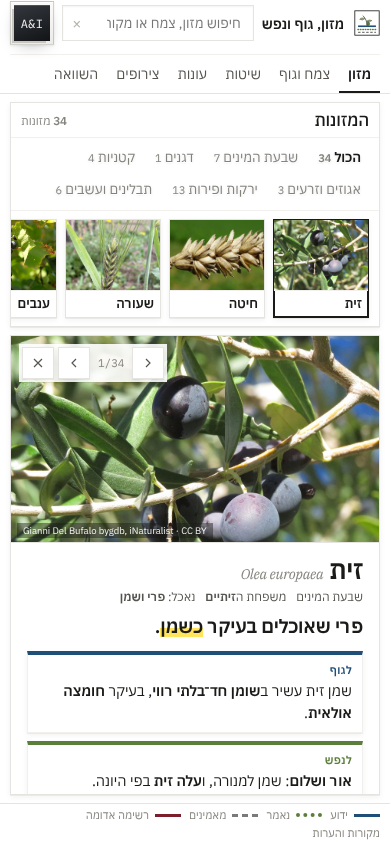
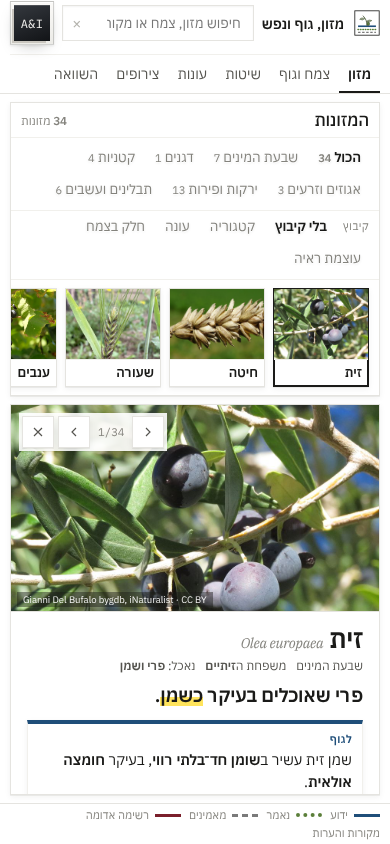
In-page photo zoom, gallery grouping with insights, two-way filters in the combinations network
- js/zoom.js: click a photo in a .zoomable frame (food sheet, plant part)
  to open it large in the page with name and credit; X, Esc (captured so
  the sheet stays open), backdrop or a screen change closes it.
- Foods gallery: group by category, season, plant part or evidence (?g=),
  with a heading and count per group and one insight sentence per grouping.
  Prev/next in the sheet follow the displayed order.
- Network: kind filter (all, boost only, block only) and partner filter
  (all, food with food, external partner), with a count and an explained
  empty state.
- Fix: <br> inside rich() rendered as text in the empty network sheet.
- e2e: 125 checks.

Claude-Session: https://claude.ai/code/session_018qeN17pb9LqXcs5gNnyUZN

diff --git a/js/views/foods.js b/js/views/foods.js
@@ -11,6 +11,8 @@ import { SCIENCE } from "../data/science.js";
 import { synergiesFor } from "../data/synergies.js";
 import { evMeter } from "../ui.js";
 import { medicineFor } from "../data/medicine.js";
+import { PARTS } from "../data/plant.js";
+import { EVIDENCE } from "../data/sources.js";
 
 export const title = "מזון";
 
@@ -44,6 +46,42 @@ function matcher(q) {
 }
 
 const visible = () => FOODS.filter((f) => !state.cats.length || state.cats.includes(f.cat));
+
+// קיבוץ הגלריה: לפי קטגוריה, עונה, חלק בצמח או עוצמת ראיה. בכל קבוצה מיון לפי השם.
+const SEASON_OF = [["חורף", [12, 1, 2]], ["אביב", [3, 4, 5]], ["קיץ", [6, 7, 8]], ["סתיו", [9, 10, 11]]];
+const GROUPS = {
+  none: { he: "בלי קיבוץ" },
+  cat: { he: "קטגוריה", key: (f) => catName(f.cat), order: CATEGORIES.map((c) => c.he) },
+  season: { he: "עונה", key: (f) => { if (!f.months.length || f.months.length >= 11) return "כל השנה"; const best = SEASON_OF.map(([n, ms]) => [n, ms.filter((m) => f.months.includes(m)).length]).sort((a, b) => b[1] - a[1])[0]; return best[0]; }, order: ["חורף", "אביב", "קיץ", "סתיו", "כל השנה"] },
+  part: { he: "חלק בצמח", key: (f) => PARTS.find((p) => p.foods.includes(f.id))?.he || "אחר", order: [...PARTS.map((p) => p.he), "אחר"] },
+  ev: { he: "עוצמת ראיה", key: (f) => { const evs = f.layers.known.map((x) => EVIDENCE.indexOf(x.ev)).filter((i) => i >= 0); return evs.length ? "ראיה " + EVIDENCE[Math.min(...evs)] : "בלי מחקר"; }, order: [...EVIDENCE.map((e) => "ראיה " + e), "בלי מחקר"] }
+};
+function groups() {
+  const list = visible(), g = GROUPS[state.g];
+  if (!g || !g.key) return [[null, list]];
+  const by = {};
+  for (const f of list) (by[g.key(f)] ||= []).push(f);
+  return g.order.filter((k) => by[k]).map((k) => [k, by[k].sort((a, b) => a.he.localeCompare(b.he, "he"))]);
+}
+// סדר התצוגה בפועל, גם לקודם והבא בגיליון.
+const ordered = () => groups().flatMap(([, l]) => l);
+function groupedHTML() {
+  return groups().map(([k, l]) => (k ? `<h3 class="g-head"><span>${esc(k)}</span><bdi class="num">${l.length}</bdi></h3>` : "") + l.map(cardHTML).join("")).join("");
+}
+// משפט תובנה לכל קיבוץ: מה הוא חושף.
+function groupInsight() {
+  const gs = groups(); if (gs.length < 2) return "";
+  const big = [...gs].sort((a, b) => b[1].length - a[1].length)[0], small = [...gs].sort((a, b) => a[1].length - b[1].length)[0];
+  const n = visible().length;
+  const T = {
+    cat: `==**${big[0]}** היא הקבוצה הגדולה==, **${big[1].length}** מתוך **${n}**.`,
+    season: `==**${big[0]}** עשיר פי ${big[1].length >= small[1].length * 3 ? "שלושה ויותר" : "שניים"} מ${small[0]}.==`,
+    part: `==**${big[0]}** מוביל==: **${big[1].length}** מתוך **${n}** מזונות.`,
+    ev: (() => { const hi = gs.find(([k]) => k === "ראיה גבוהה"); return hi ? `==**${hi[1].length}** מתוך **${n}** נשענים על ראיה גבוהה.==` : ""; })()
+  };
+  return T[state.g] ? `<span class="g-ins">${rich(T[state.g])}</span>` : "";
+}
+const groupChips = () => `<span class="label" style="margin-inline-end:4px">קיבוץ</span>` + Object.entries(GROUPS).map(([k, g]) => `<button class="chip" data-group="${k}" aria-pressed="${state.g === k}">${g.he}</button>`).join("") + groupInsight();
 
 function chipsHTML() {
   const all = `<span class="chip-wrap"><button class="chip" data-cat="" aria-pressed="${!state.cats.length}">הכול<span class="count">${FOODS.length}</span></button></span>`;
@@ -90,7 +128,7 @@ function scienceHTML(f) {
 const tile = (label, cls, body) => `<div class="tile ${cls}"><span class="tile-l">${label}</span>${body}</div>`;
 
 function sheetHTML(f) {
-  const list = visible();
+  const list = ordered();
   const idx = list.findIndex((x) => x.id === f.id);
   const pr = PROFILES[f.id] || {};
   const lines = (arr) => arr.map((x) => `<p>${rich(x.t)}</p>`).join("");
@@ -101,7 +139,7 @@ function sheetHTML(f) {
   const months = f.months.length ? `${monthsBar(f)}<p class="hint">${esc(f.season_kind)}: <b>${esc(f.months.map((m) => MONTHS[m - 1]).join(", "))}</b></p>` : `<p style="font-size:14px">${rich("**כל השנה**, ביבוא.")}</p>`;
   const srcIds = [...(SCIENCE[f.id]?.studied || []).map((x) => x.src), ...synergiesFor(f.id).map((x) => x.src), f.recognize.src, f.use.src, pr.body?.src, pr.soul?.src, ...(pr.with || []).map((x) => x.src), ...(pr.without || []).map((x) => x.src),
     ...LAYERS.flatMap((l) => f.layers[l.key].map((x) => x.src)), "season-est"];
-  return `<div class="sheet-hero">${foodImage(f, { big: true })}${photoCredit(f)}
+  return `<div class="sheet-hero zoomable" data-zoom-cap="${esc(f.he)}">${foodImage(f, { big: true })}${photoCredit(f)}
       <div class="ops on-photo">${iconBtn("prev", "הקודם", `data-step="-1" ${idx <= 0 ? "disabled" : ""}`)}<span class="pos"><bdi class="num" style="font-weight:400">${idx + 1}/${list.length}</bdi></span>${iconBtn("next", "הבא", `data-step="1" ${idx >= list.length - 1 ? "disabled" : ""}`)}${iconBtn("x", "סגירה", "data-close")}</div>
     </div>
     <div class="panel-body scroll-in" style="flex:1">
@@ -129,7 +167,8 @@ function sheetHTML(f) {
 }
 
 function renderGallery() {
-  root.querySelector("#gallery").innerHTML = visible().map(cardHTML).join("");
+  root.querySelector("#gallery").innerHTML = groupedHTML();
+  root.querySelector("#gchips").innerHTML = groupChips();
   root.querySelector("#chips").innerHTML = chipsHTML();
   applySearch();
 }
@@ -164,7 +203,8 @@ export function mount(el, params, ctx) {
   state = {
     id: params.id || null,
     cats: (params.cat || "").split(",").filter((c) => CATEGORIES.some((x) => x.id === c)),
-    q: params.q || ctx.query || ""
+    q: params.q || ctx.query || "",
+    g: GROUPS[params.g] ? params.g : "none"
   };
   const qInput = document.querySelector("#q");
   if (state.q && qInput && qInput.value !== state.q) qInput.value = state.q;
@@ -177,6 +217,7 @@ export function mount(el, params, ctx) {
         <span class="src" id="hits" aria-live="polite"></span>
       </div>
       <div class="gallery-tools" style="padding-top:4px;padding-bottom:6px"><div class="chips" id="chips" role="group" aria-label="קטגוריות"></div></div>
+      <div class="gallery-tools g-tools"><div class="chips" id="gchips" role="group" aria-label="קיבוץ"></div></div>
       <div class="scroll-in gallery-box" style="flex:1"><div class="gallery" id="gallery"></div></div>
     </section>
     <aside class="panel sheet" id="sheet" aria-labelledby="sheet-title"></aside>
@@ -200,6 +241,8 @@ export function mount(el, params, ctx) {
   root.addEventListener("click", (e) => {
     const card = e.target.closest(".food-card");
     if (card) return select(card.dataset.id, { scroll: true });
+    const gb = e.target.closest("[data-group]");
+    if (gb) { state.g = gb.dataset.group; patch({ g: state.g === "none" ? undefined : state.g }); return renderGallery(); }
     const chip = e.target.closest("[data-cat]");
     if (chip) {
       const c = chip.dataset.cat;
@@ -213,7 +256,7 @@ export function mount(el, params, ctx) {
     if (rem) { state.cats = state.cats.filter((c) => c !== rem.dataset.rem); patch({ cat: state.cats.join(",") || undefined }); return renderGallery(); }
     const step = e.target.closest("[data-step]");
     if (step) {
-      const list = visible(); const i = list.findIndex((x) => x.id === state.id);
+      const list = ordered(); const i = list.findIndex((x) => x.id === state.id);
       const nx = list[i + Number(step.dataset.step)];
       if (nx) select(nx.id);
       return;
@@ -224,7 +267,7 @@ export function mount(el, params, ctx) {
   const onKey = (e) => {
     if (e.target.closest("input, textarea, select") || document.getElementById("safety-overlay")) return;
     if (!state.id) return;
-    const list = visible(); const i = list.findIndex((x) => x.id === state.id);
+    const list = ordered(); const i = list.findIndex((x) => x.id === state.id);
     if (e.key === "ArrowLeft" && list[i + 1]) select(list[i + 1].id);
     if (e.key === "ArrowRight" && list[i - 1]) select(list[i - 1].id);
     if (e.key === "Escape") select(null);
@@ -235,6 +278,8 @@ export function mount(el, params, ctx) {
 
 export function update(params) {
   if ((params.id || null) !== state.id) { state.id = params.id || null; renderSheet(); }
+  const g = GROUPS[params.g] ? params.g : "none";
+  if (g !== state.g) { state.g = g; renderGallery(); }
   const cats = (params.cat || "").split(",").filter(Boolean);
   if (cats.join() !== state.cats.join()) { state.cats = cats; renderGallery(); }
   if (params.q !== undefined && params.q !== state.q) { state.q = params.q; document.querySelector("#q").value = params.q; applySearch(); }

diff --git a/js/views/recipes.js b/js/views/recipes.js
@@ -73,9 +73,9 @@ function yearHTML() {
 // רשת הצירופים: כל מזון צומת, כל צירוף קו. ירוק רציף מעצים, אדום מקווקו מחליש. לחיצה פותחת את המנגנון בטור הצד.
 const nodeKey = (s, side) => side === "a" ? s.a : (s.b || "m:" + s.mate);
 const nodeLabel = (k) => k.startsWith("m:") ? k.slice(2) : byId(k).he;
-function netNodes() {
+function netNodes(SYN) {
   const adj = {};
-  for (const s of SYNERGIES) { const a = nodeKey(s, "a"), b = nodeKey(s, "b"); (adj[a] ||= []).push(b); (adj[b] ||= []).push(a); }
+  for (const s of SYN) { const a = nodeKey(s, "a"), b = nodeKey(s, "b"); (adj[a] ||= []).push(b); (adj[b] ||= []).push(a); }
   // הצומת העמוס במרכז כעמוד שדרה, וכל זוג אחר כשורה אופקית משני הצדדים. כך כל קו נראה, ושום תווית לא עולה על אחרת.
   const keys = Object.keys(adj).sort((x, y) => adj[y].length - adj[x].length);
   const hub = keys[0], W = 840, H = 440, cx = W / 2, cy = H / 2, GAP = 46;
@@ -111,23 +111,32 @@ function netInsights(adj) {
     { type: "פרשנות", t: `ב-**${ext.length}** צירופים השותף אינו מזון מהגלריה: ==גם זמן, בישול ומשקה הם חלק מהצירוף.==` }
   ];
 }
+// סינון בשני הכיוונים: סוג (מעצים, מחליש, הכול) ושותף (מהגלריה, מחוץ לה, הכול).
+const KINDS = [["all", "הכול"], ["boost", "רק מעצים"], ["block", "רק מחלישים"]];
+const MATES = [["all", "הכול"], ["in", "רק מזון עם מזון"], ["ext", "רק שותף חיצוני"]];
+const netList = () => SYNERGIES.filter((s) => (state.k === "all" || s.kind === state.k) && (state.p === "all" || (state.p === "in" ? !!s.b : !s.b)));
 function netHTML() {
-  const { W, H, adj, pos } = netNodes();
+  const SYN = netList();
+  if (!SYN.length) return `<div class="net-box"><p class="src">אין צירוף שמתאים לסינון. <button class="chip" data-net-k="all" data-net-p="all">ניקוי הסינון</button></p></div>`;
+  const { W, H, adj, pos } = netNodes(SYN);
   const sel = state.syn;
-  const edges = SYNERGIES.map((s) => { const a = pos[nodeKey(s, "a")], b = pos[nodeKey(s, "b")];
+  const edges = SYN.map((s) => { const a = pos[nodeKey(s, "a")], b = pos[nodeKey(s, "b")];
     return `<g class="ne ${s.kind} ${sel === s.id ? "on" : ""}" data-syn="${s.id}" tabindex="0" role="button" aria-label="${esc(s.title)}"><line x1="${a.x}" y1="${a.y}" x2="${b.x}" y2="${b.y}" class="ne-hit"/><line x1="${a.x}" y1="${a.y}" x2="${b.x}" y2="${b.y}" class="ne-l"/></g>`; }).join("");
   const nodes = Object.entries(pos).map(([k, p]) => { const ext = k.startsWith("m:"); const lab = nodeLabel(k); const w = Math.max(44, lab.length * 9 + 18);
     return `<g class="nn ${ext ? "ext" : ""}" data-node="${esc(k)}" tabindex="0" role="button" transform="translate(${p.x},${p.y})"><rect x="${-w / 2}" y="-13" width="${w}" height="26"/><text y="5">${esc(lab)}</text>${adj[k].length > 1 ? `<circle cx="${w / 2}" cy="-13" r="9"/><text class="nn-n" x="${w / 2}" y="-9">${adj[k].length}</text>` : ""}</g>`; }).join("");
   return `<div class="net-box">
+    <div class="net-f"><span class="chips" role="group" aria-label="סוג">${KINDS.map(([k, he]) => `<button class="chip" data-net-k="${k}" aria-pressed="${state.k === k}">${he}</button>`).join("")}</span>
+      <span class="chips" role="group" aria-label="שותף">${MATES.map(([k, he]) => `<button class="chip" data-net-p="${k}" aria-pressed="${state.p === k}">${he}</button>`).join("")}</span>
+      <span class="src"><bdi class="num">${SYN.length}</bdi> מתוך <bdi class="num">${SYNERGIES.length}</bdi></span></div>
     <ol class="insights net-ins">${netInsights(adj).map((x) => `<li><span class="label">${x.type}</span> ${rich(x.t)}</li>`).join("")}</ol>
-    <div class="net-list" role="list">${SYNERGIES.map((s) => `<button class="net-row ${s.kind} ${sel === s.id ? "on" : ""}" data-syn="${s.id}" role="listitem"><b>${esc(nodeLabel(nodeKey(s, "a")))}</b><i></i><b>${esc(nodeLabel(nodeKey(s, "b")))}</b></button>`).join("")}</div>
+    <div class="net-list" role="list">${SYN.map((s) => `<button class="net-row ${s.kind} ${sel === s.id ? "on" : ""}" data-syn="${s.id}" role="listitem"><b>${esc(nodeLabel(nodeKey(s, "a")))}</b><i></i><b>${esc(nodeLabel(nodeKey(s, "b")))}</b></button>`).join("")}</div>
     <svg class="net" viewBox="0 0 ${W} ${H}" role="img" aria-label="רשת הצירופים">${edges}${nodes}</svg>
     <p class="hint net-legend"><span class="lg boost"></span>מעצים <span class="lg block"></span>מחליש <span class="lg ext"></span>שותף שאינו בגלריה · לחיצה על קו או על מזון פותחת את המנגנון</p>
   </div>`;
 }
 function synSheetHTML() {
   const node = state.node, list = node ? SYNERGIES.filter((s) => nodeKey(s, "a") === node || nodeKey(s, "b") === node) : SYNERGIES.filter((s) => s.id === state.syn);
-  if (!list.length) return `<div class="panel-body" style="display:grid;place-items:center;height:100%;color:var(--ink-soft);text-align:center">${rich("**לחצו על קו** כדי לראות למה הצירוף עובד,<br>ובאיזו מנה הוא קורה.")}</div>`;
+  if (!list.length) return `<div class="panel-body" style="display:grid;place-items:center;height:100%;color:var(--ink-soft);text-align:center"><p class="lines"><span>${rich("**לחצו על קו** כדי לראות למה הצירוף עובד,")}</span><span>ובאיזו מנה הוא קורה.</span></p></div>`;
   const head = node ? nodeLabel(node) : list[0].title;
   return `<div class="panel-head"><div style="min-width:0"><span class="label">${node ? "מזון ברשת" : "צירוף"}</span><h2 class="sheet-name" id="r-title">${esc(head)}</h2></div><div class="ops">${iconBtn("x", "סגירה", "data-net-close")}</div></div>
     <div class="panel-body scroll-in" style="flex:1">${list.map((s) => `<div class="syn ${s.kind}"><b class="syn-t">${s.kind === "boost" ? "מעצים" : "מחליש"} · ${esc(s.title)}</b><p>${rich(s.how)}</p><p class="syn-dish"><span class="tile-l">בצלחת</span>${rich(s.suggest)}</p>
@@ -170,7 +179,8 @@ function select(id) { state.id = id; patch({ id: id || undefined }); renderSheet
 
 export function mount(el, params) {
   root = el;
-  state = { id: params.id || null, food: byId(params.food) ? params.food : null, season: params.season === "1", v: params.v === "net" ? "net" : "list", syn: params.syn || null, node: null };
+  state = { id: params.id || null, food: byId(params.food) ? params.food : null, season: params.season === "1", v: params.v === "net" ? "net" : "list", syn: params.syn || null, node: null,
+    k: KINDS.some(([k]) => k === params.k) ? params.k : "all", p: MATES.some(([k]) => k === params.p) ? params.p : "all" };
   if (!state.id) state.id = list()[0]?.id || null;
   root.innerHTML = `<div class="view-in focus-aside">
     <section class="panel" aria-labelledby="rl-title">
@@ -192,6 +202,10 @@ export function mount(el, params) {
   root.addEventListener("keydown", (e) => { const el = e.target.closest?.("[data-syn], [data-node]"); if (el && (e.key === "Enter" || e.key === " ")) { e.preventDefault(); pickNet(el); } });
   root.addEventListener("click", (e) => {
     const vb = e.target.closest("[data-v]"); if (vb) { state.v = vb.dataset.v; patch({ v: state.v === "net" ? "net" : undefined, syn: undefined }); state.syn = null; state.node = null; return render(); }
+    const nf = e.target.closest("[data-net-k], [data-net-p]");
+    if (nf) { if (nf.dataset.netK) state.k = nf.dataset.netK; if (nf.dataset.netP) state.p = nf.dataset.netP;
+      if (state.syn && !netList().some((s) => s.id === state.syn)) state.syn = null;
+      patch({ k: state.k === "all" ? undefined : state.k, p: state.p === "all" ? undefined : state.p, syn: state.syn || undefined }); return render(); }
     const ne = e.target.closest("[data-syn], [data-node]"); if (ne) return pickNet(ne);
     const orr = e.target.closest("[data-open-recipe]"); if (orr) { state.v = "list"; state.food = null; state.season = false; state.id = orr.dataset.openRecipe; patch({ v: undefined, syn: undefined, food: undefined, season: undefined, id: state.id }); return render(); }
     if (e.target.closest("[data-net-close]")) { state.syn = null; state.node = null; patch({ syn: undefined }); return render(); }

diff --git a/css/app.css b/css/app.css
@@ -724,7 +724,7 @@ mark.insight { background: linear-gradient(transparent 45%, var(--marker) 45%, v
   .home2 .demo .st-text { font-size: 13.5px; }
 }
 /* רשת הצירופים */
-.net-box { display: grid; grid-template-rows: auto minmax(0, 1fr) auto; height: 100%; padding: 6px 14px 10px; gap: 4px; }
+.net-box { display: grid; grid-template-rows: auto auto minmax(0, 1fr) auto; height: 100%; padding: 6px 14px 10px; gap: 4px; }
 .net-ins { margin: 0; }
 .net { width: 100%; height: 100%; min-height: 300px; direction: ltr; }
 .ne { cursor: pointer; }
@@ -770,3 +770,26 @@ mark.insight { background: linear-gradient(transparent 45%, var(--marker) 45%, v
   .net-row.on { border-color: var(--ink); box-shadow: inset 0 0 0 1px var(--ink); }
   .net-legend { font-size: 12px; }
 }
+/* הגדלת תמונה בתוך הדף */
+.zoomable img { cursor: zoom-in; }
+.lightbox { position: fixed; inset: 0; z-index: 50; background: rgba(20, 20, 18, .82); display: grid; place-items: center; padding: 24px; animation: lb-in .2s ease-out; }
+.lb-fig { position: relative; margin: 0; max-width: min(1100px, 100%); max-height: 100%; display: grid; grid-template-rows: minmax(0, 1fr) auto; background: #fff; box-shadow: 0 20px 60px rgba(0,0,0,.45); }
+.lb-fig img { display: block; max-width: 100%; max-height: calc(100vh - 120px); object-fit: contain; margin: auto; }
+.lb-fig figcaption { direction: rtl; display: flex; gap: 12px; align-items: baseline; justify-content: space-between; padding: 8px 12px; font-size: 15px; }
+.lb-fig .credit { position: static; font-size: 11px; color: var(--ink-mute); background: none; }
+.lb-ops { position: absolute; top: 8px; left: 8px; background: rgba(255,255,255,.92); box-shadow: var(--shadow-1); }
+@keyframes lb-in { from { opacity: 0; } }
+@media (prefers-reduced-motion: reduce) { .lightbox { animation: none; } }
+/* קיבוץ בגלריה */
+.g-tools { padding-top: 0 !important; padding-bottom: 6px !important; }
+.g-head { grid-column: 1 / -1; display: flex; gap: 8px; align-items: baseline; margin: 6px 0 -2px; padding-bottom: 3px; border-bottom: 1px solid var(--ink); font-size: 15px; font-weight: 700; }
+.g-head .num { font-size: 12px; color: var(--ink-mute); font-weight: 400; }
+.g-head:first-child { margin-top: 0; }
+@media (max-width: 920px) {
+  [data-view="foods"] .g-head { grid-column: auto; grid-row: 1 / span 1; writing-mode: vertical-rl; transform: rotate(180deg); border: none; border-inline-start: 2px solid var(--ink); margin: 0; padding: 4px 2px; font-size: 13px; justify-content: center; width: 28px; }
+  [data-view="foods"] .gallery:has(.g-head) { grid-auto-columns: auto; }
+}
+.net-f { display: flex; flex-wrap: wrap; gap: 6px 16px; align-items: center; }
+.net-f .src { margin-inline-start: auto; }
+.g-ins { margin-inline-start: auto; font-size: 13px; font-weight: 600; }
+@media (max-width: 920px) { .g-ins { flex-basis: 100%; margin: 2px 0 0; } }

diff --git a/js/zoom.js b/js/zoom.js
@@ -1,0 +1,39 @@
+// הגדלת תמונה בתוך הדף: לחיצה על תמונה בתוך .zoomable פותחת אותה גדולה, עם שם וקרדיט.
+// סגירה באיקס, ב-Esc או בלחיצה על הרקע. המיקוד חוזר לתמונה.
+import { esc, iconBtn } from "./ui.js";
+
+let box = null, back = null;
+function close() {
+  if (!box) return;
+  box.remove(); box = null;
+  document.removeEventListener("keydown", onKey, true);
+  back?.focus?.();
+}
+function onKey(e) { if (e.key === "Escape") { e.stopPropagation(); e.preventDefault(); close(); } }
+
+export function openZoom(img, cap, credit) {
+  close();
+  back = img;
+  box = document.createElement("div");
+  box.className = "lightbox";
+  box.setAttribute("role", "dialog");
+  box.setAttribute("aria-modal", "true");
+  box.setAttribute("aria-label", cap || "תמונה מוגדלת");
+  box.innerHTML = `<figure class="lb-fig"><img src="${esc(img.currentSrc || img.src)}" alt="${esc(img.alt || cap)}">
+    <figcaption><b>${esc(cap)}</b>${credit ? `<span class="credit">${esc(credit)}</span>` : ""}</figcaption>
+    <div class="lb-ops">${iconBtn("x", "סגירה", "data-lb-close")}</div></figure>`;
+  box.addEventListener("click", (e) => { if (e.target === box || e.target.closest("[data-lb-close]")) close(); });
+  document.body.appendChild(box);
+  document.addEventListener("keydown", onKey, true);
+  box.querySelector("[data-lb-close]").focus();
+}
+
+export function initZoom() {
+  addEventListener("hashchange", () => { back = null; close(); });
+  document.addEventListener("click", (e) => {
+    const img = e.target.closest(".zoomable img");
+    if (!img || e.target.closest("button, a, .ops")) return;
+    const z = img.closest(".zoomable");
+    openZoom(img, z.dataset.zoomCap || img.alt, z.querySelector(".credit")?.textContent || "");
+  });
+}

diff --git a/js/views/plant.js b/js/views/plant.js
@@ -38,7 +38,7 @@ function asideHTML() {
   const p = PARTS.find((x) => x.id === sel);
   const ph = partPhoto(p.id);
   const foods = p.foods.map(byId).filter(Boolean);
-  return `<div class="sheet-hero">${ph ? `<img src="${ph.src}" alt="${esc(ph.caption)}"><span class="credit">${esc(ph.credit)}</span>` : ""}</div>
+  return `<div class="sheet-hero zoomable" data-zoom-cap="${esc(ph ? ph.caption : "")}">${ph ? `<img src="${ph.src}" alt="${esc(ph.caption)}"><span class="credit">${esc(ph.credit)}</span>` : ""}</div>
     <div class="panel-body scroll-in" style="flex:1">
       <h2 class="sheet-name" id="pl-title">${esc(p.he)} <span class="pl-organ">↔ ${esc(p.organ)}</span></h2>
       <p class="hint">${esc(ph?.caption || "")}</p>

diff --git a/js/app.js b/js/app.js
@@ -3,6 +3,7 @@ import { parse, go } from "./route.js";
 import { legendHTML } from "./ui.js";
 import { APP_MARK } from "./plates.js";
 import { classify, showSafety } from "./safety.js";
+import { initZoom } from "./zoom.js";
 import * as home from "./views/home.js";
 import * as foods from "./views/foods.js";
 import * as plant from "./views/plant.js";
@@ -72,3 +73,5 @@ render();
 if ("serviceWorker" in navigator && location.protocol === "https:" && !location.hostname.includes("githack")) {
   navigator.serviceWorker.register("sw.js").catch(() => {});
 }
+
+initZoom();

diff --git a/CLAUDE.md b/CLAUDE.md
@@ -53,7 +53,7 @@
 
 ## תהליך
 אפיון קצר, ואחר כך קוד. מסך אחד בכל פעם.
-לפני מיזוג: `npm test` (בדיקת דאטה ו-115 בדיקות קצה לקצה), `node tests/fit.cjs`, `node tests/overlap.cjs`, ובדיקת כיווניות בתצוגה.
+לפני מיזוג: `npm test` (בדיקת דאטה ו-125 בדיקות קצה לקצה), `node tests/fit.cjs`, `node tests/overlap.cjs`, ובדיקת כיווניות בתצוגה.
 
 ## יומן תיקונים
 - 02.11.2026: נבנתה גרסה 1 מאב הטיפוס: 8 מסכים, 26 מזונות, 78 טענות בשכבות, 32 מקורות. אב הטיפוס נשמר ב-docs/prototype/v0.html.
@@ -66,6 +66,7 @@
 - 02.11.2026: גשר לאפליקציה האחות "רפואה". ענת: "כן תעשה קשר בין תזונה לרפואה". בגיליון של 10 מזונות יש בלוק "ברפואה" שפותח את הכרטיס המתאים שם בלשונית חדשה. מקור יחיד: `js/data/medicine.js`. התווית היא רק שם הכרטיס, והעובדות נשארות ברפואה.
 
 - 03.11.2026: רשת הצירופים בדף "צירופים" (`?v=net`): עדשים כעמוד שדרה במרכז, וכל זוג אחר כשורה משני הצדדים. ירוק רציף מעצים, אדום מקווקו מחליש, אפור למקווקו לשותף שאינו בגלריה. שלוש תובנות לפני הרשת. לחיצה על קו או מזון פותחת את המנגנון ואת המנות בטור הצד, ומנה פותחת את המתכון באותו דף. בנייד: רשימה של זוגות במקום הגרף. דף הבית מתחלף: הגילוי מתחיל ממקום אקראי ומתחלף כל 9 שניות, והצירוף המעצים נבחר באקראי מבין אלה שבעונה. לכל מספר בדלתות יש משפט תובנה מחושב מהדאטה.
+- 03.11.2026: לפי אישור ענת להמלצות: הגדלת צילום בלחיצה, בתוך הדף (`js/zoom.js`, בגיליון המזון ובצמח וגוף; Esc, איקס או מעבר מסך סוגרים). קיבוץ בגלריה לפי קטגוריה, עונה, חלק בצמח ועוצמת ראיה (`?g=`), עם כותרת ומספר לכל קבוצה ומשפט תובנה לכל קיבוץ. הקודם והבא בגיליון הולכים לפי סדר התצוגה. ברשת הצירופים סינון בשני הכיוונים: סוג (הכול, רק מעצים, רק מחלישים) ושותף (הכול, רק מזון עם מזון, רק שותף חיצוני), עם מונה והסבר כשהסינון ריק.
 
 ## למדנו בבנייה
 - כל המסכים חולקים מיכל `#view`. מאזין לחיצה שנרשם עליו מצטבר בין מעברים. לכן המיכל מוחלף בכל מעבר מסך.
@@ -83,6 +84,7 @@
 - **רשת במסגרת רחבה ונמוכה:** פריסה במעגל שמה זוגות זה ליד זה, והקווים נעלמו. עמוד שדרה לצומת העמוס ושורות אופקיות לזוגות נותנים קו גלוי לכל צירוף, בלי תווית על תווית.
 - **מספר עשרוני בתוך מרקר בעברית** (2.5) נשבר בכיווניות. בתובנה כותבים במילים: "יותר מכפול".
 - גלאי החפיפה מודד עכשיו רק את החלק הגלוי של טקסט, אחרי חיתוך במיכל הגלילה. טקסט שנחתך בקצה התחתון סומן קודם כחפיפה עם שורת המצב.
+- `rich()` מקודד HTML, ולכן `<br>` בתוכו מופיע כטקסט. שבירת שורה נעשית ב-`.lines` עם `<span>` לכל שורה.
 
 ## ריכוזי ידע שנעשו
 - "איך יודעים מה יודעים על מזון" (דף השיטה): כתבה, פריסת פיצול, בהשראת Flora Graeca, 1806.
